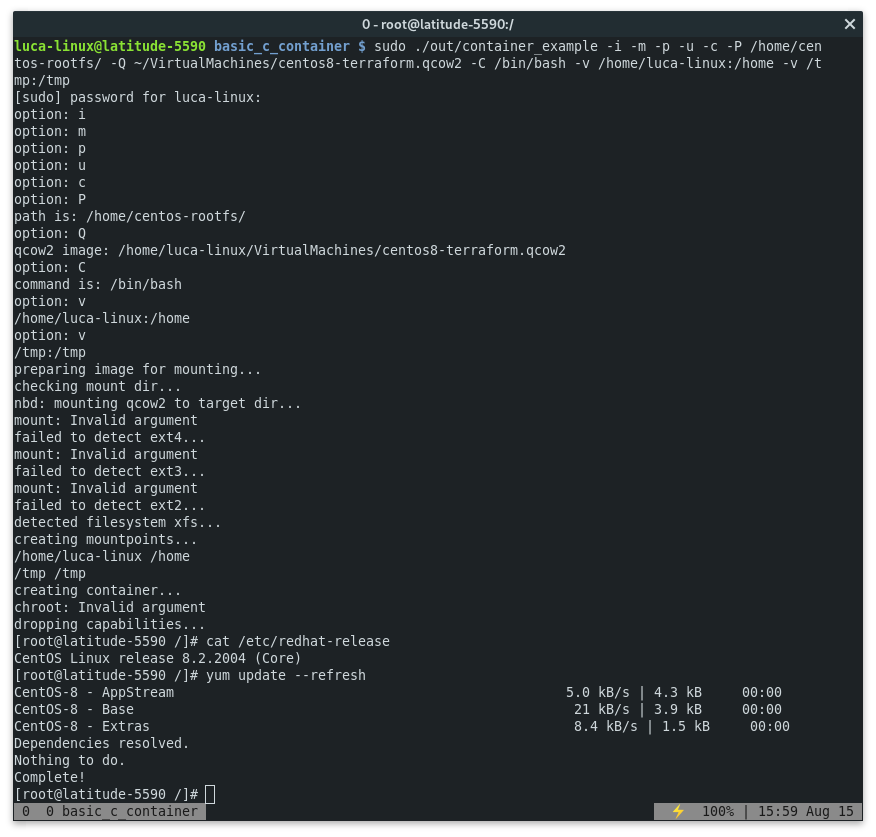
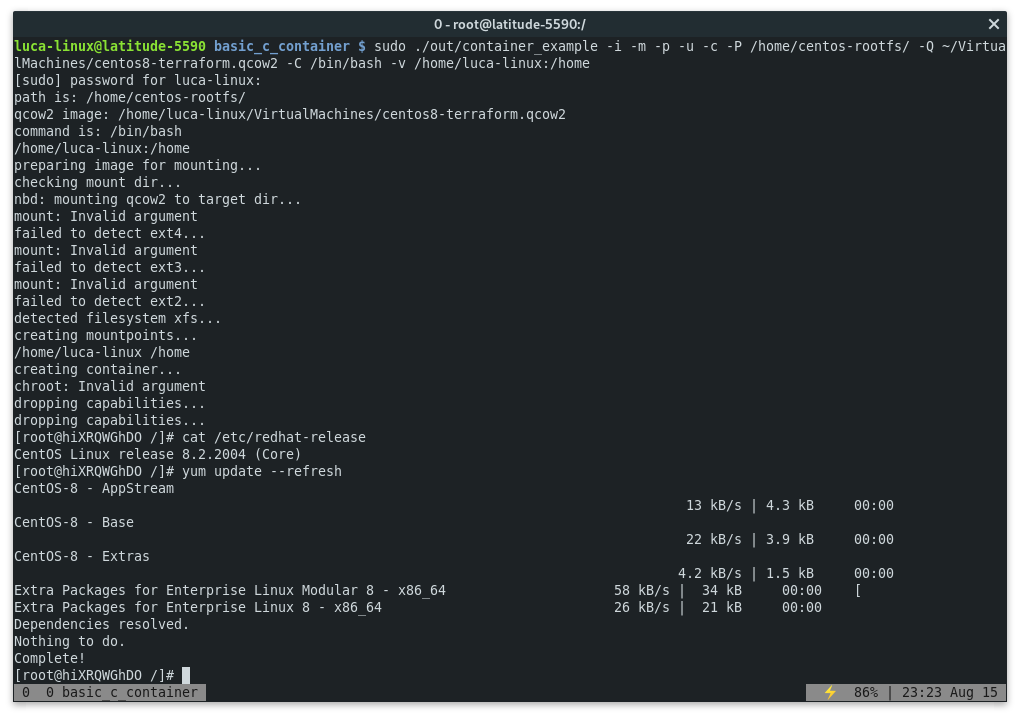
update README

diff --git a/src/main.c b/src/main.c
@@ -112,7 +112,6 @@ int main(int argc, char* argv[])
    *
    **/
     while ((opt = getopt(argc, argv, OPTSTR)) != EOF) {
-        printf("option: %c\n", opt);
         switch (opt) {
         case 'i':
             namespaces |= CLONE_NEWIPC;

diff --git a/README.md b/README.md
@@ -27,6 +27,8 @@ tar xfv alpine-minirootfs-3.12.0-x86_64.tar.gz -C /home/alpine-minirootfs-3.12.0
 
 `sudo ./out/container_example -i -m -p -u -c -P /home/alpine-minirootfs-3.12.0-x86_64/ -C /bin/sh`
 
+![alpine-container](./pics/alpine-container.png)
+
 ### Example with command line arguments
 
 ```
